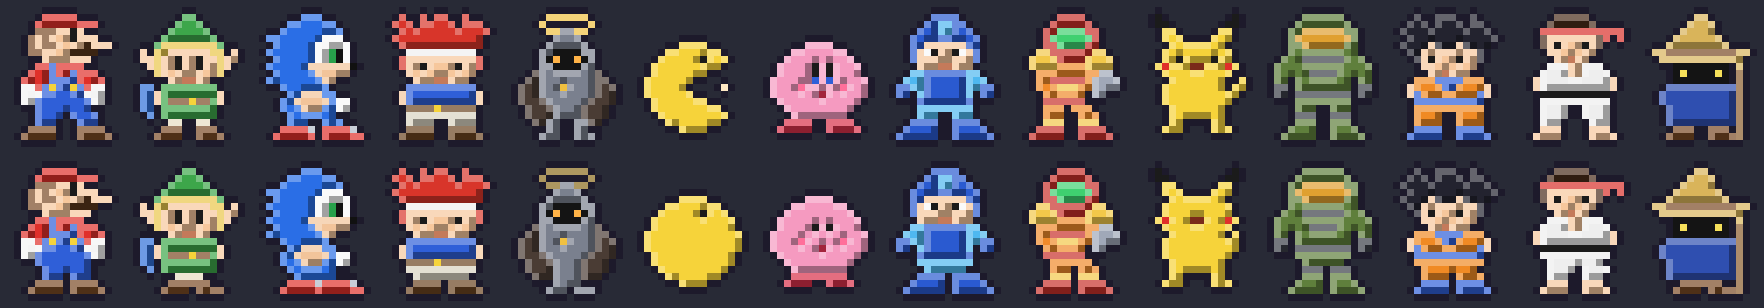
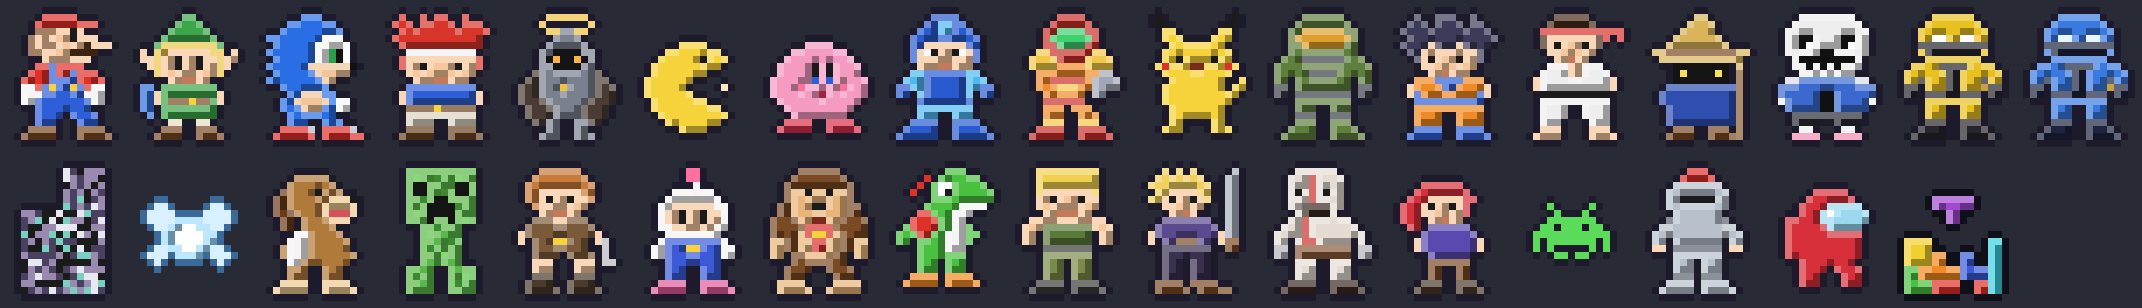
docs: README com os personagens novos, encontros e comandos

diff --git a/README.md b/README.md
@@ -8,9 +8,12 @@ Uma barra lateral para o [Claude Code](https://claude.com/claude-code) que mostr
 
 - **Painel**: modelo atual, barra de uso do contexto, custo da sessão, agentes ativos e a checklist de tarefas (TodoWrite).
 - **Palco**: um cenário discreto em tons de cinza do tema. O céu muda com a hora do dia, o sol e a lua fazem seu arco e aparecem nuvens, chuva, uma árvore, grama e um passarinho de vez em quando. Só os personagens e os especiais são coloridos.
-- **14 personagens** que se revezam a cada ~90 s: Mario, Link, Sonic, Crono, Tarnished, Pac-Man, Kirby, Mega Man, Samus, Pikachu, Master Chief, Goku, Ryu e Black Mage.
+- **33 personagens** que se revezam a cada ~90 s: Mario, Link, Sonic, Crono, Tarnished, Pac-Man, Kirby, Mega Man, Samus, Pikachu, Master Chief, Goku, Ryu, Black Mage, Sans, Scorpion, Sub-Zero, MissingNo., Navi, o cachorro do Duck Hunt, Creeper, Simon Belmont, Bomberman, Donkey Kong, Yoshi, Guile, Cloud, Kratos, Madeline, um Space Invader, Arthur, um tripulante de Among Us e as peças de Tetris.
 - **Falas em balão de RPG**, com o texto surgindo letra a letra. São piadas, frases de motivação, comentários sobre o que está sendo feito (arquivo editado, tarefas, custo), hora do dia, dia da semana, datas especiais e o clima.
-- **Especiais que quebram a quarta parede**: o golpe sai da barra lateral e atravessa a tela inteira numa faixa acima do prompt.
+- **Especiais que quebram a quarta parede**: o golpe sai da barra lateral e atravessa a tela inteira numa faixa acima do prompt. Alguns exemplos: o Gaster Blaster do Sans, o arpão do Scorpion (que volta puxando um pedaço da tela), o Creeper explodindo, a bomba em cruz do Bomberman, o gelo do Sub-Zero que congela e racha, o MissingNo. corrompendo a tela, a Navi dando uma dica de verdade e o Arthur perdendo a armadura.
+- **Encontros**: às vezes dois personagens dividem o palco. Mario e Sonic apostam corrida, Ryu duela com Guile, Scorpion com Sub-Zero, e o Pac-Man foge do fantasma até achar a pastilha de poder.
+- **Kirby copia**: o Kirby inspira o personagem anterior e solta a especial dele, de chapéu.
+- **Especial carregado**: quando uma tarefa passa mais de 5 minutos em andamento, ao terminar o especial sai maior, com brilho em volta.
 - **Reações**: quando uma tarefa é concluída, quando o Claude pede autorização ou quando o turno termina, o personagem comenta e solta o especial.
 
 ## Instalação
@@ -42,6 +45,8 @@ Fora da tela cheia, o painel abre inline.
 | `/sidebar` | Abre a barra lateral, caso ela tenha sido fechada |
 | `/especial` | O personagem atual solta o especial agora |
 | `/especial goku` | Chama um personagem específico (o nome pode ser parcial) |
+| `/especial goku forte` | Especial carregado |
+| `/encontro` | Chama um encontro (ou `/encontro ryu`, por exemplo) |
 
 ## Observações
 
@@ -51,7 +56,7 @@ Fora da tela cheia, o painel abre inline.
 
 ## Aviso sobre fan art
 
-Este é um projeto de fã, sem fins comerciais. Os personagens são releituras em pixel art feitas à mão e pertencem aos seus respectivos donos (Nintendo, SEGA, Square Enix, FromSoftware, Bandai Namco, Capcom, Microsoft, The Pokémon Company, Toei/Shueisha e outros). O projeto não tem afiliação com nenhuma dessas empresas nem é endossado por elas. Se você é titular de algum desses direitos e quer que algo seja removido, abra uma issue e o conteúdo será retirado.
+Este é um projeto de fã, sem fins comerciais. Os personagens são releituras em pixel art feitas à mão e pertencem aos seus respectivos donos (Nintendo, SEGA, Square Enix, FromSoftware, Bandai Namco, Capcom, Microsoft/Mojang, The Pokémon Company, Game Freak, Toei/Shueisha, Toby Fox, Warner Bros./NetherRealm, Konami, Sony Interactive Entertainment, Taito, Innersloth, Extremely OK Games, The Tetris Company e outros). O projeto não tem afiliação com nenhuma dessas empresas nem é endossado por elas. Se você é titular de algum desses direitos e quer que algo seja removido, abra uma issue e o conteúdo será retirado.
 
 ## Licença
 
